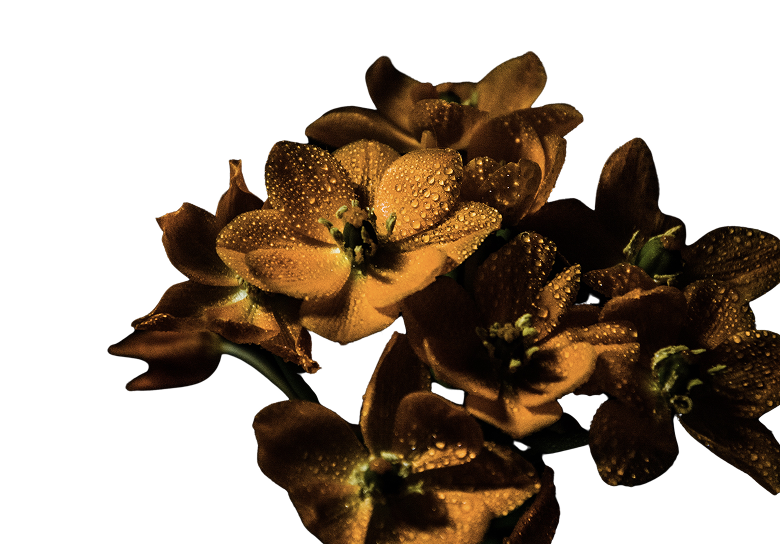
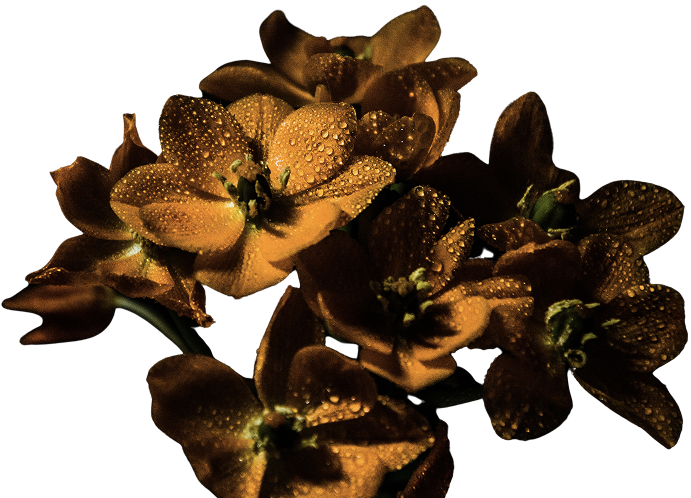
About page: added patterns (head, header, footer, cart) and added .hero section and adaptive for mobile

diff --git a/src/sass/blocks/about/hero-about.scss b/src/sass/blocks/about/hero-about.scss
@@ -1,0 +1,219 @@
+@use "/src/sass/base/variables.scss" as *;
+@use "/src/sass/base/mixins.scss" as *;
+
+.page-about {
+    position: relative;
+    &__main {
+        position: relative;
+        overflow: hidden;
+    }
+    .page__bubble {
+        position: absolute;
+        z-index: -2;
+    }
+    .bubble__second,
+    .bubble__second_two {
+        background-color: $color-bg-about;
+        box-shadow: 0 0 200px 100px $color-bg-about;
+    }
+    .header {
+        background-color: $color-black !important;
+        &__phone,
+        &__btn {
+            visibility: visible;
+        }
+    }
+    .hero {
+        &__path {
+            margin-top: 115px;
+        }
+        &__title {
+            margin-top: 46px;
+            padding-left: 95px;
+            font-family: $second-family;
+            font-weight: 400;
+            @include fluid-font(40, 100);
+            letter-spacing: 0.02em;
+            text-transform: uppercase;
+            color: $color-white;
+            line-height: 121px;
+        }
+
+        &__mark {
+            margin-top: 98px;
+            padding-left: 186px;
+            max-width: 428px;
+            position: relative;
+            font-family: $second-family;
+            font-weight: 400;
+            font-size: 60px;
+            line-height: 64px;
+            letter-spacing: 0.02em;
+            text-transform: uppercase;
+            color: $color-mint;
+            &::after {
+                content: "";
+                display: block;
+                border: 1px solid $color-mint;
+                width: 60px;
+
+                position: absolute;
+                right: -20px;
+                bottom: 31px;
+                transform: translateX(100%);
+            }
+        }
+
+        &__info {
+            margin-top: 18px;
+            margin-left: auto;
+            max-width: 847px;
+            width: 100%;
+            backdrop-filter: blur(20px);
+            background: rgba(0, 0, 0, 0.2);
+            padding: 40px 165px 40px 20px;
+
+            &-title {
+                font-family: $font-family;
+                font-weight: 300;
+                font-size: 20px;
+                line-height: 26px;
+                letter-spacing: 0.02em;
+                text-transform: uppercase;
+                color: $color-white;
+            }
+            &-text {
+                margin-top: 20px;
+                font-family: $font-family;
+                font-weight: 300;
+                font-size: 20px;
+                line-height: 26px;
+                letter-spacing: 0.04em;
+                color: $color-white;
+            }
+        }
+        &__img {
+            position: absolute;
+            &_left {
+                transform: rotate(17deg);
+                width: 808px;
+                top: 82px;
+                left: -446px;
+                z-index: -1;
+            }
+            &_right {
+                top: 42px;
+                right: -18px;
+                z-index: 100;
+            }
+        }
+    }
+    @media screen and (max-width: 1024px) {
+        .hero {
+            &__mark {
+                margin-top: 0;
+            }
+            &__img {
+                &_left {
+                    width: 500px;
+                    bottom: 100px;
+                    left: -200px;
+                }
+                &_right {
+                    width: 533px;
+                    top: 58px;
+                    right: -165px;
+                }
+            }
+        }
+    }
+}
+@media screen and (max-width: 768px) {
+    .page-about {
+        .header {
+            background-color: $color-black !important;
+            &__logo_mobile {
+                display: block;
+                font-family: $second-family;
+                font-weight: 300;
+                font-size: 20px;
+                letter-spacing: 0.2em;
+                text-transform: uppercase;
+                color: $color-white;
+                text-align: center;
+            }
+        }
+
+        .hero {
+            &__path {
+                margin-top: 100px;
+            }
+            &__mark {
+                padding-left: 0;
+                max-width: 244px;
+                &::after {
+                    width: 20px;
+                }
+            }
+            &__info {
+                padding: 20px;
+            }
+            &__img {
+                &_left {
+                    z-index: 1;
+                    width: 200px;
+                    bottom: auto;
+                    top: 123px;
+                    left: -94px;
+                }
+                &_right {
+                    width: 366px;
+                    top: 163px;
+                    right: -158px;
+                }
+            }
+        }
+    }
+}
+@media screen and (max-width: 425px) {
+    .page-about {
+        .hero {
+            &__path {
+                margin-top: 100px;
+            }
+            &__title {
+                margin-top: 20px;
+                line-height: 48px;
+                padding-left: 51px;
+            }
+            &__mark {
+                margin-top: 89px;
+                font-size: 20px;
+                line-height: 24px;
+                max-width: 71px;
+                padding-left: 0;
+                &::after {
+                    width: 20px;
+                    bottom: 10px;
+                }
+            }
+            &__info {
+                margin-top: 0;
+                max-width: 259px;
+                padding: 10px;
+                &-title,
+                &-text {
+                    font-size: 14px;
+                    line-height: 21px;
+                }
+            }
+            &__img {
+                &_right {
+                    width: 268px;
+                    top: 126px;
+                    right: -100px;
+                }
+            }
+        }
+    }
+}

diff --git a/about/index.html b/about/index.html
@@ -1,0 +1,60 @@
+<!DOCTYPE html>
+<html lang="ru">
+    <head>
+        <%- include('src/templates/head.html'); %>
+        <title>LF-About Us</title>
+    </head>
+    <body class="page-about">
+        <main class="page-about__main">
+            <%- include('src/templates/header.html'); %>
+            <section class="hero">
+                <div class="container">
+                    <div class="path hero__path">
+                        <a href="/index.html">Главная</a>
+                        /
+                        <a href="/about/index.html">о нас</a>
+                    </div>
+                    <h1 class="hero__title">о нас</h1>
+                    <div class="hero__mark">Lover <br> flower</div>
+                </div>
+                <div class="hero__info">
+                    <h2 class="hero__info-title">молодая команда
+                        разных
+                        людей с одинаковыми ценностями.</h2>
+                    <div class="hero__info-text">Мы считаем, что
+                        удовольствие от качества длится дольше, чем
+                        удовольствие
+                        от низкой цены. И поэтому в создание нашей
+                        букетерии мы вложили все,
+                        чем располагаем: душу, сердце, время и
+                        мечты! Мы
+                        готовы обещать вам только то, что можем
+                        сделать.
+                        А делаем мы только самое качественное, самое
+                        интересное
+                        и обязательно уникальное. Мы всегда честны
+                        со
+                        своими клиентами во всем –
+                        в нашем каталоге только те букеты, которые
+                        вы
+                        действительно сможете купить.</div>
+                </div>
+                <img src="/src/image/about/about__bg.png"
+                    class="hero__img hero__img_left"
+                    alt="beautiful flowers for the background">
+                <img src="/src/image/about/about__bg.png"
+                    class="hero__img hero__img_right"
+                    alt="beautiful flowers for the background">
+
+            </section>
+
+            <div class="page__bubble bubble__second"></div>
+            <div class="page__bubble bubble__second_two"></div>
+
+        </main>
+        <%- include('src/templates/cart.html'); %>
+        <%- include('src/templates/footer.html'); %>
+        <script type="module"
+            src="/src/js/main.js"></script>
+    </body>
+</html>

diff --git a/src/templates/header.html b/src/templates/header.html
@@ -44,10 +44,11 @@
                         </div>
                     </li>
 
-                    <li><a href="/order/index.html"
+                    <li><a href="/delivery/index.html"
                             class="header__link">Доставка и
                             оплата</a></li>
-                    <li><a href="#" class="header__link">О нас</a></li>
+                    <li><a href="/about/index.html" class="header__link">О
+                            нас</a></li>
                     <li><a href="#" class="header__link">Контакты</a></li>
                     <li><a href="#" class="header__link">FAQ</a></li>
                     <li class="search js-search">
@@ -101,10 +102,13 @@
                 <button class="search__close js-close-search">╳</button>
             </div>
         </li>
-        <li><a href="#" class="header-mobile__link">Каталог</a></li>
-        <li><a href="#" class="header-mobile__link">Доставка и
+        <li><a href="/catalog/index.html"
+                class="header-mobile__link">Каталог</a></li>
+        <li><a href="/delivery/index.html" class="header-mobile__link">Доставка
+                и
                 оплата</a></li>
-        <li><a href="#" class="header-mobile__link">О нас</a></li>
+        <li><a href="/about/index.html" class="header-mobile__link">О
+                нас</a></li>
         <li><a href="#" class="header-mobile__link">Контакты</a></li>
         <li><a href="#" class="header-mobile__link">FAQ</a></li>
         <li><a href="#" class="header-mobile__link">для корпоративных

diff --git a/src/js/main.js b/src/js/main.js
@@ -875,3 +875,18 @@ try {
 } catch (e) {
     console.error("Ошибка при изменении z-index у header на странице 404:", e);
 }
+
+//  Z-index control for hero image
+try {
+    document.addEventListener("scroll", () => {
+        const img = document.querySelector(".hero__img_right");
+
+        if (window.scrollY > 1) {
+            img.style.zIndex = "-1";
+        } else {
+            img.style.zIndex = "100";
+        }
+    });
+} catch (e) {
+    console.error("Ошибка:", e);
+}

diff --git a/src/sass/base/variables.scss b/src/sass/base/variables.scss
@@ -9,6 +9,7 @@ $color-black: #000000;
 $color-yellow: #fcff50;
 $color-bg-404: #163d8f;
 $color-delivery: #6b535f;
+$color-bg-about: #c8a156;
 $font-family: "Oswald", sans-serif;
 $second-family: "Cormorant", sans-serif;
 $font4: "Roboto Condensed", sans-serif;

diff --git a/src/sass/style.scss b/src/sass/style.scss
@@ -51,3 +51,5 @@
 @use "/src/sass/blocks/delivery/method-delivery.scss";
 @use "/src/sass/blocks/delivery/details-delivery.scss";
 @use "/src/sass/blocks/delivery/terms-delivery.scss";
+
+@use "/src/sass/blocks/about/hero-about.scss";

diff --git a/delivery/index.html b/delivery/index.html
@@ -1,5 +1,5 @@
 <!DOCTYPE html>
-<html lang="en">
+<html lang="ru">
     <head>
         <%- include('src/templates/head.html'); %>
         <title>LF-delivery</title>
